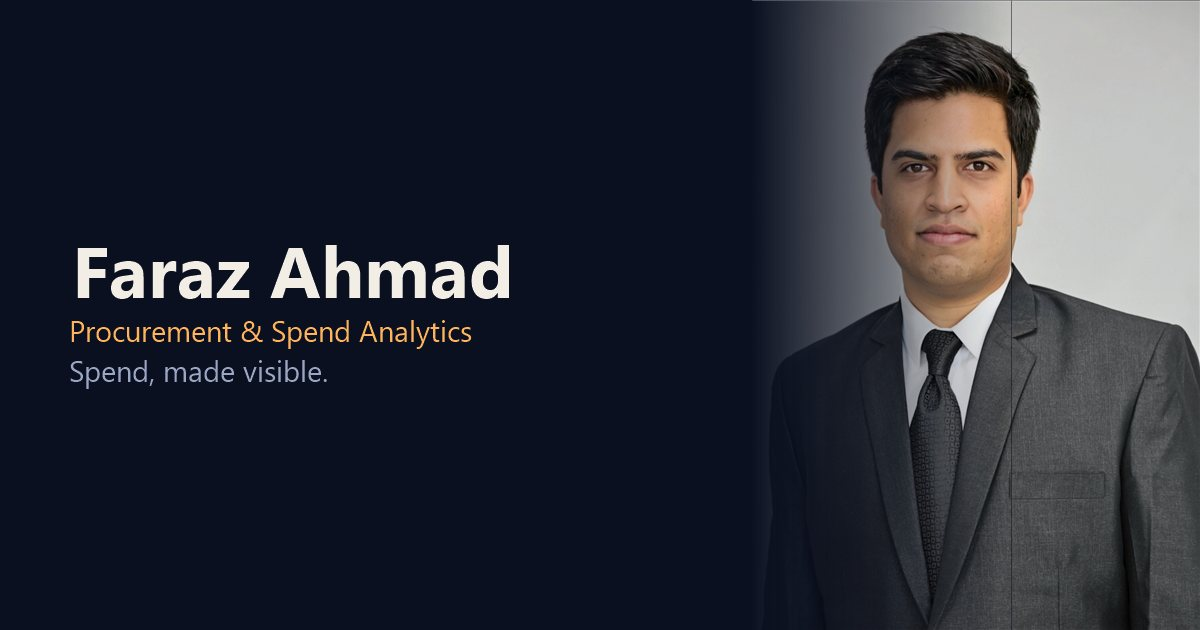
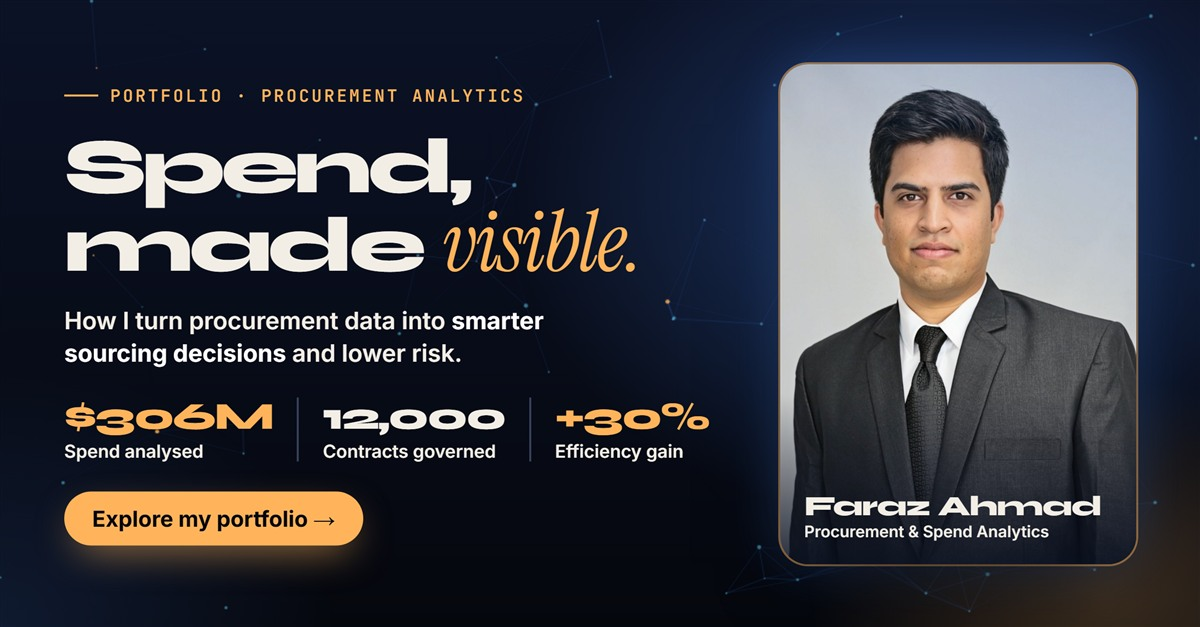
Use the new portfolio thumbnail as the link preview image

diff --git a/index.html b/index.html
@@ -11,11 +11,16 @@
   <meta property="og:type" content="website">
   <meta property="og:title" content="Faraz Ahmad — Procurement &amp; Spend Analytics">
   <meta property="og:description" content="Spend, made visible. Procurement analytics that turns data into decisions.">
-  <meta property="og:image" content="assets/img/og-image.jpg">
+  <meta property="og:url" content="https://faraz2402.github.io/faraz-ahmad-portfolio/">
+  <meta property="og:image" content="https://faraz2402.github.io/faraz-ahmad-portfolio/assets/img/og-image.jpg">
+  <meta property="og:image:width" content="1200">
+  <meta property="og:image:height" content="627">
+  <meta property="og:image:alt" content="Spend, made visible. Faraz Ahmad, Procurement and Spend Analytics portfolio">
+  <meta name="author" content="Faraz Ahmad">
   <meta name="twitter:card" content="summary_large_image">
   <meta name="twitter:title" content="Faraz Ahmad — Procurement &amp; Spend Analytics">
   <meta name="twitter:description" content="Spend, made visible. Procurement analytics that turns data into decisions.">
-  <meta name="twitter:image" content="assets/img/og-image.jpg">
+  <meta name="twitter:image" content="https://faraz2402.github.io/faraz-ahmad-portfolio/assets/img/og-image.jpg">
 
   <link rel="preconnect" href="https://fonts.googleapis.com">
   <link rel="preconnect" href="https://fonts.gstatic.com" crossorigin>
